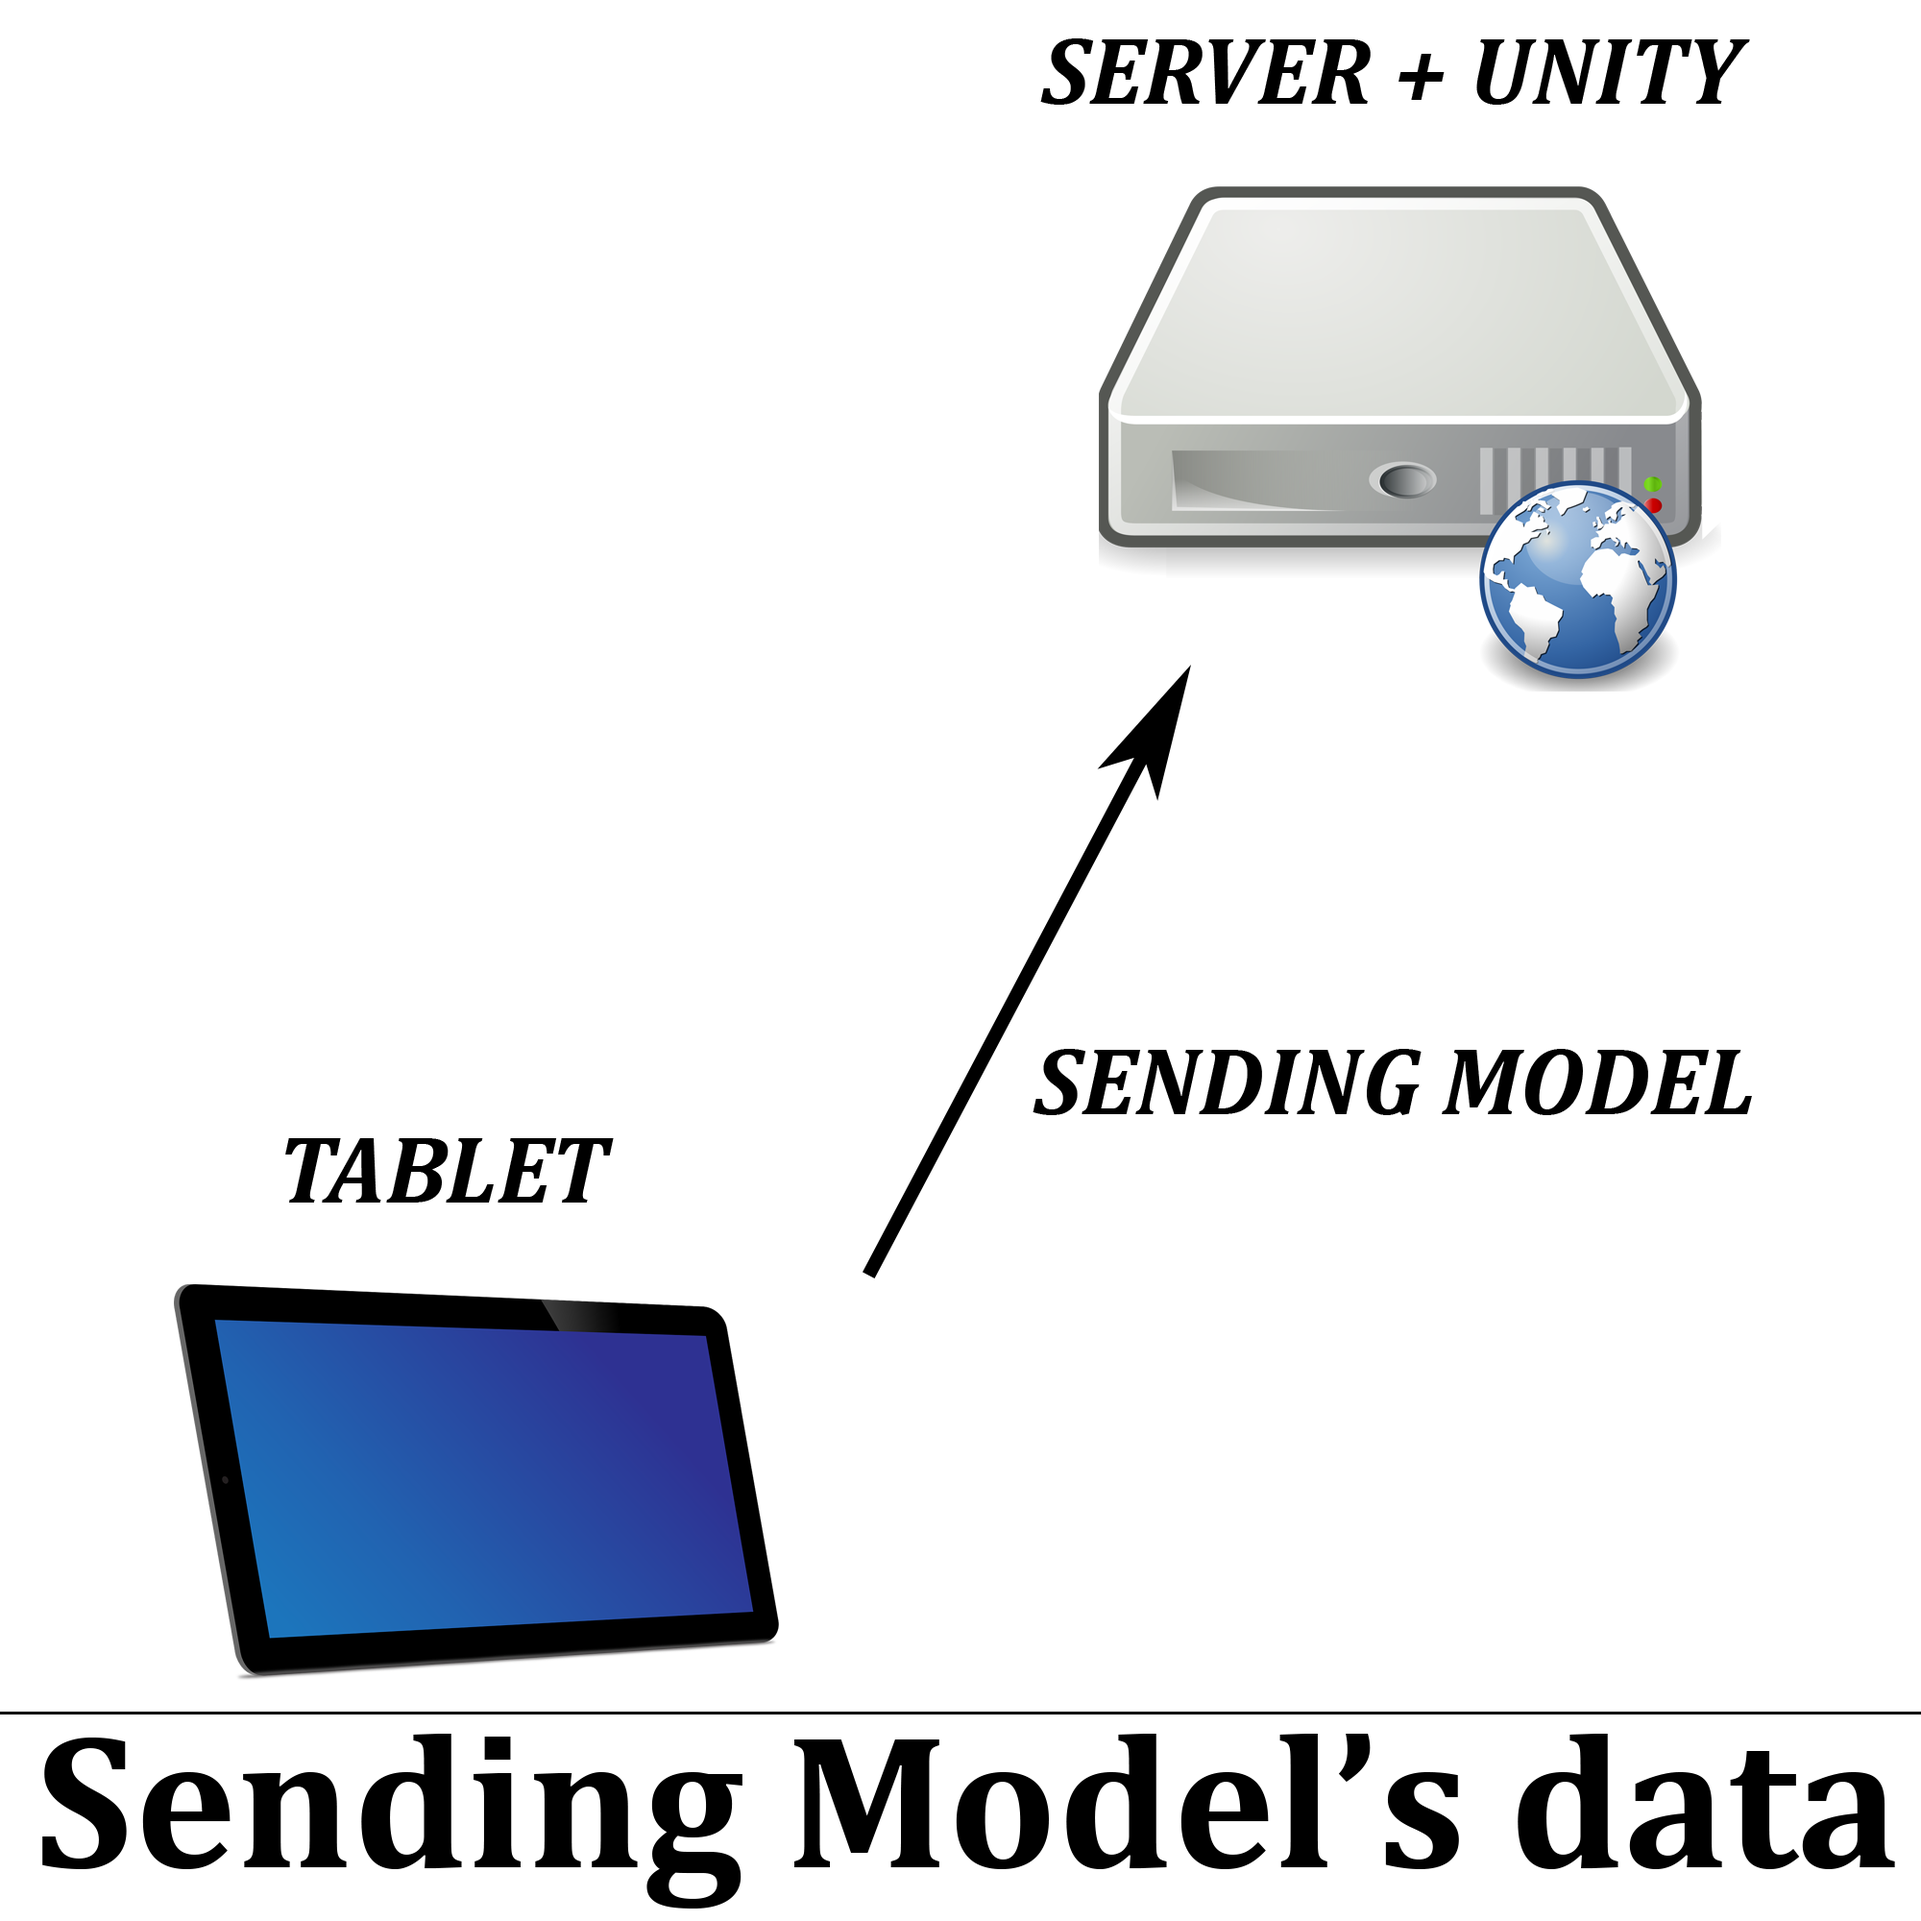
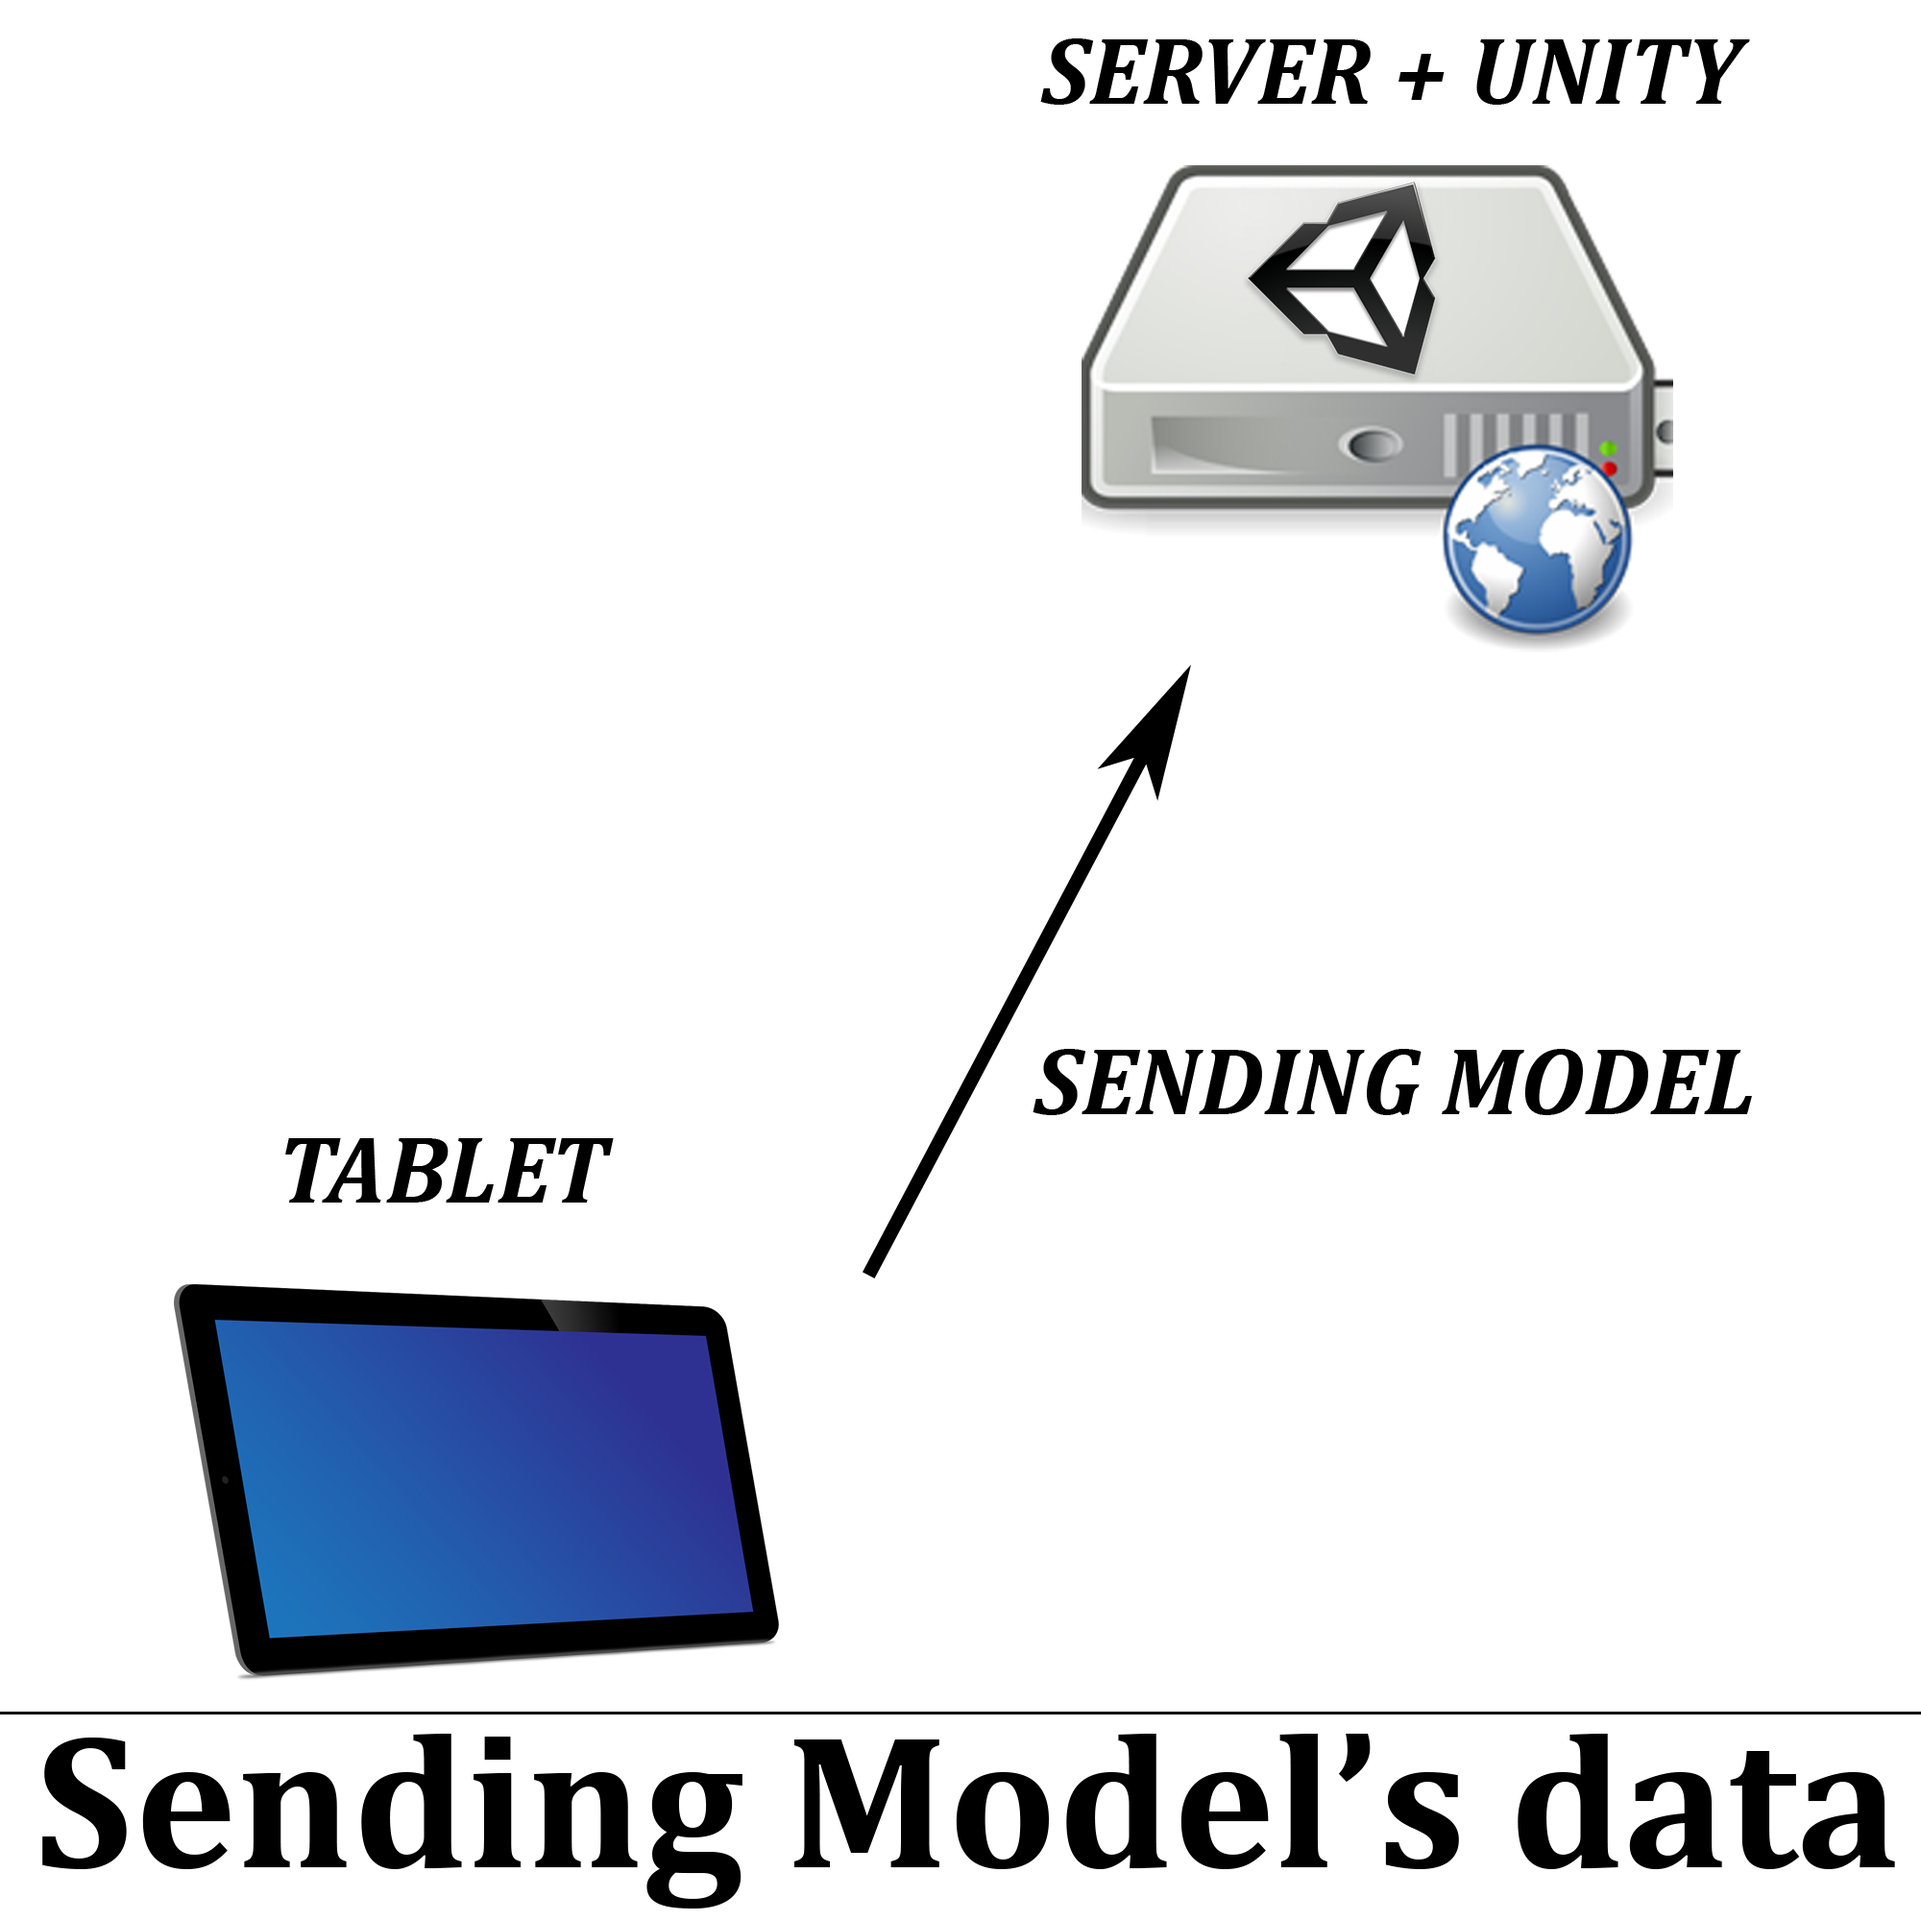
big change network

Changed region(s): [[0.558, 0.062, 0.899, 0.372]]

diff --git a/Diapo_EtudePratique.tex b/Diapo_EtudePratique.tex
@@ -317,62 +317,88 @@
 			
 			\begin{frame}{Network}
 				\centerline{\includegraphics[height=150pt]{images/network/network.png}}
-				
-				\centerline{\textbf{How to Network ?}}
 			\end{frame}
 			
 		\subsection{How will it work?}
+		
 			
-			\begin{frame}{How will it work?}
-				\begin{multicols}{2}
-					\includegraphics[height=100pt]{images/network/sending_model.png}
-					\pause
-					
-					\columnbreak
-					\includegraphics[height=100pt]{images/network/plugin.png}
-					\begin{itemize}
-						\item Simple
-						\item Few lines
-					\end{itemize}
-				\end{multicols}
-				
+		
+			\begin{frame}{What do we have ?}
+				\centerline{\includegraphics[height=150pt]{images/network/server.png}}
 			\end{frame}
 			
-		\subsection{External Application?}
-			
-			\begin{frame}{External Application?}
-				Internet Protocols:
-				
-				\begin{multicols}{2}
-					\includegraphics[height=50pt]{images/network/nohttp.png}
-					
-					\columnbreak
-					\includegraphics[height=50pt]{images/network/noftp.png}
-				\end{multicols}
-				
-				\pause
-				
-				No other running application.
+			\begin{frame}{What do we want ?}
+				\centerline{\includegraphics[height=150pt]{images/network/sending_model.png}}
 			\end{frame}
 			
-		\subsection{Unity Network}
-			
-			\begin{frame}{Classic Networking}
-					\centerline{\includegraphics[height=175pt]{images/network/classicnet.png}}
-			\end{frame}
-			
-			\begin{frame}{Assets}
-				\begin{itemize}
-					\item Unity Assets : Java Class look alike.
-					\item Well implemented.
-					\item Documentation on internet.
+		\subsection{In the server}
+			\begin{frame}{Plugin}
+				\centerline{\includegraphics[height=150pt]{images/network/plugin.png}}
+				\begin{itemize}	
+					\item Little plugin
+					\item Only receive data from the tablet
+					\item Integrated in an Unity application
 				\end{itemize}	
-				
-				\centerline{\includegraphics[height=175pt]{images/network/optimized.png}}
-				
-				
+											
 			\end{frame}
 			
+		\subsection{In the tablet}
+			
+			\begin{frame}{External Application}
+				\begin{multicols}{2}
+					
+					\begin{itemize}
+						\item Use resources
+					\end{itemize}
+					\includegraphics[height=100pt]{images/network/CPU_resources.jpg}
+					\pause
+					\columnbreak	
+					
+					\begin{itemize}
+						\item Too complex to set up /
+						
+						 to use
+					\end{itemize}
+					\includegraphics[height=100pt]{images/network/complex.png}					
+				\end{multicols}	
+			\end{frame}
+		
+			\begin{frame}{What Protocol to use ?}
+					\begin{multicols}{2}
+						HTTP:
+						\begin{itemize}
+							\item Used for: Getting data from a server
+							\item Problem: Posting specific data to a server
+						\end{itemize}
+						\pause
+						
+						\includegraphics[height=135pt]{images/network/nmft.png}
+						\pause
+						
+						\columnbreak
+						FTP:
+						\begin{itemize}
+							\item Used for: Sending data to a server
+							\item Problem: Too complex for the user
+						\end{itemize}
+						\pause
+						
+						\includegraphics[height=135pt]{images/network/classicnet.png}
+					\end{multicols}
+					
+			\end{frame}
+			
+		\begin{frame}{Unity Assets}
+			\begin{itemize}
+				\item Unity Assets : Java Class look alike
+				\item Well implemented
+				\item Documentation available
+				\pause
+				\item \textbf{\underline{Facilitate Unity to Unity Networking}}
+			\end{itemize}
+			\centerline{\includegraphics[height=75pt]{images/network/easier.png}}
+		\end{frame}
+		
 		
 
 	
